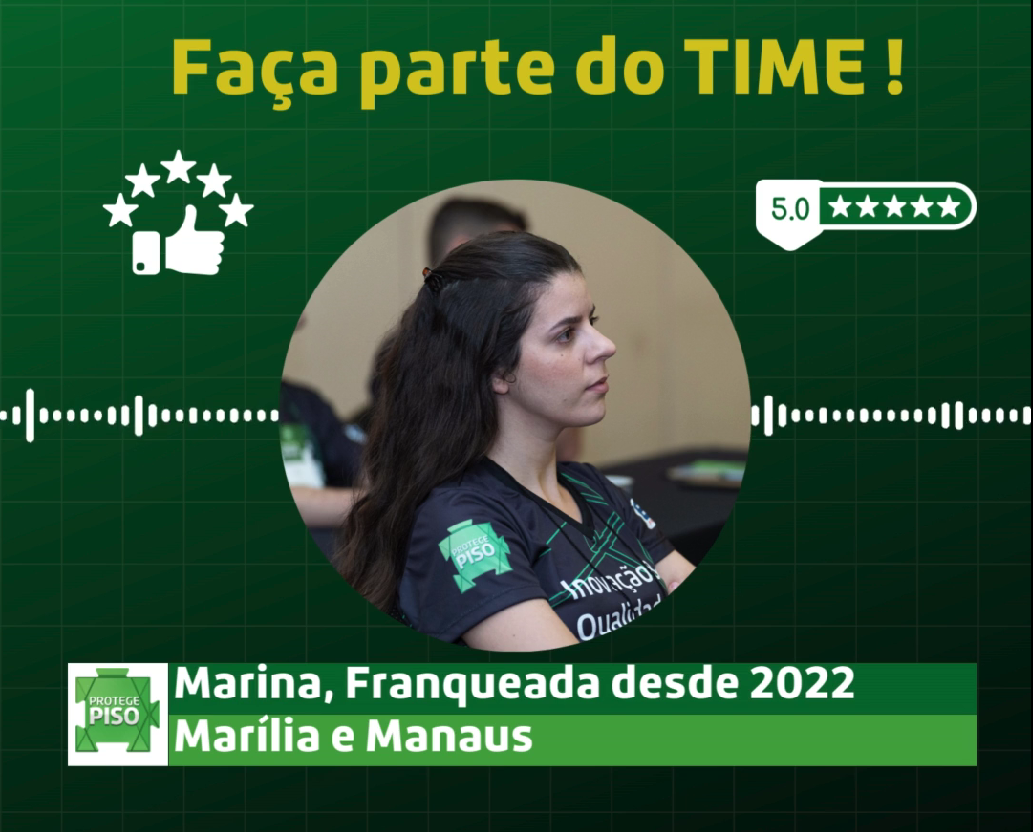
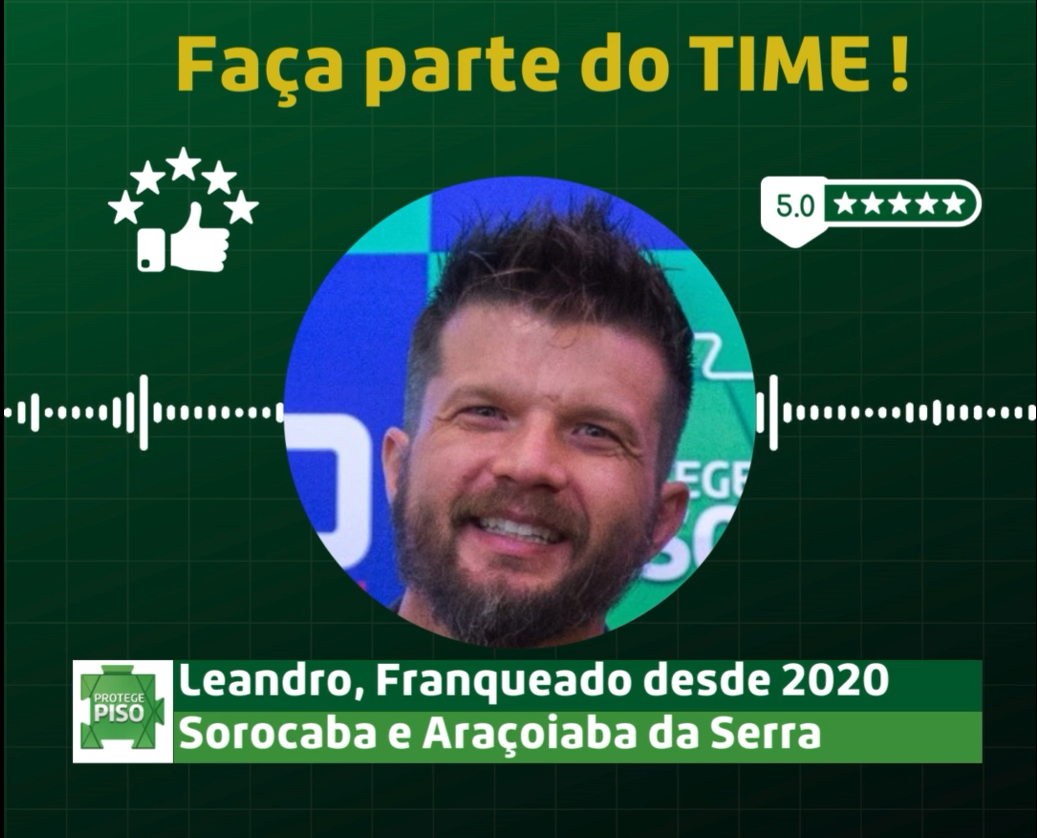
first commit sorocaba

diff --git a/index.html b/index.html
@@ -5,7 +5,7 @@
     <meta charset="UTF-8">
     <meta name="viewport" content="width=device-width, initial-scale=1.0">
     <meta name="Landing Page" content="Website da franquia da protege piso de Palmas">
-    <title>Protege Piso Marilia</title>
+    <title>Protege Piso Sorocaba</title>
     <link rel="stylesheet" href="styles.css">
     <link rel="stylesheet" href="https://cdn.jsdelivr.net/npm/glider-js@1/glider.min.css">
     <script src="https://cdn.jsdelivr.net/npm/glider-js@1/glider.min.js"></script>
@@ -32,7 +32,7 @@
                 <div class="navbar-container">
                     <a href="#" class="logo">
                         <img src="./images/logoprotege.png" alt="Logo da protege piso">
-                        <h3>MARÍLIA</h3>
+                        <h3>Sorocaba</h3>
                     </a>
 
                     <div class="menu-toggle" id="mobile-menu" onclick="toggleMenu()">
@@ -46,7 +46,7 @@
                         <li class="nav-item"><a href="#Informacoes" class="nav-link">Informações</a></li>
                         <li class="nav-item"><a href="#" class="nav-link" id="openChatBtn">Seja um franqueado</a></li>
                         <li class="nav-item">
-                            <a href="https://wa.me/5514998581586" target="_blank">
+                            <a href="https://wa.me/5515998004192" target="_blank">
                                 <img src="images/icone_whatsapp.png" alt="icone logo whatsapp" class="whatsapp-icon-nav"
                                     style="margin-right: 10px;">
                             </a>
@@ -185,7 +185,7 @@
                 <p id="followers"></p>
                 <p id="posts"></p>
             </div>
-            <a href="https://www.instagram.com/ProtegePisoMarilia/" target="_blank"><button type="button"
+            <a href="https://www.instagram.com/protegepisosorocaba/" target="_blank"><button type="button"
                     class="botao-seguir">Seguir</button></a>
         </div>
         <div class="glider-contain-custom">
@@ -197,7 +197,7 @@
     </section>
 
     <section class="container-quem-somos" id="QuemSomos">
-        <h3>EM MARÍLIA DESDE 2022</h3>
+        <h3>EM SOROCABA DESDE 2020</h3>
         <img src="images/na_cidade_desde.PNG" class="imagem-quem-somos" alt="imagem do franqueado">
     </section>
 
@@ -208,20 +208,20 @@
 
         <div class="rodape-informacoes">
             <h5>Franquia</h5>
-            <p>marilia@protegepiso.com.br</p>
+            <p>leandro@protegepiso.com.br</p>
             <div class="item-rodape">
-                <a href="https://wa.me/5514998581586" target="_blank">
+                <a href="https://wa.me/5515998004192" target="_blank">
                     <img src="images/icone_whatsapp.png" alt="icone logo whatsapp"
                         class="rodape-informacoes-icone-whatsapp">
                 </a>
-                <p>(14) 99858-1586</p>
+                <p>(15) 99800-4192</p>
             </div>
             <div class="item-rodape">
                 <a href="https://www.instagram.com/ProtegePisoMarilia/" target="_blank">
                     <img src="images/icone_instagram.png" alt="icone logo instagram"
                         class="rodape-informacoes-icone-instagram">
                 </a>
-                <p>@protegepisomarilia
+                <p>@protegepisosorocaba
                 </p>
             </div>
         </div>

diff --git a/index.js b/index.js
@@ -39,7 +39,7 @@ function toggleMenu() {
     menu.classList.toggle('active');
 }
 
-const apiUrl = 'https://app.ketzim.com/webservice/get-instagram-info/ProtegePisoMarilia/?Token=Ld7gRCo9JtIRw0Ub3sC3JxuCgIMvSAzJEMLSutCPh9XosGzzqpdlhsqhUYXHHRyHKPZ6MHcwfl8Dl7ohzsKv7jpihquxHvFmEkFJ';
+const apiUrl = 'https://app.ketzim.com/webservice/get-instagram-info/ProtegePisoSorocaba/?Token=Ld7gRCo9JtIRw0Ub3sC3JxuCgIMvSAzJEMLSutCPh9XosGzzqpdlhsqhUYXHHRyHKPZ6MHcwfl8Dl7ohzsKv7jpihquxHvFmEkFJ';
 
 function displayUserProfile(profile) {
     document.getElementById('profile-picture').src = profile.profile_picture_url;
@@ -134,7 +134,7 @@ function waitForJivoChat() {
 waitForJivoChat();
 
 const iframeContainer = document.querySelector('.container-iframe');
-const iframeUrl = 'https://app.ketzim.com/webservice/mapa/marilia/';
+const iframeUrl = 'https://app.ketzim.com/webservice/mapa/sorocaba/';
 
 
 fetch(iframeUrl)
@@ -151,16 +151,5 @@ fetch(iframeUrl)
     iframeContainer.innerHTML = '<p>O mapa está temporariamente indisponível. Por favor, tente novamente mais tarde.</p>';
     console.error('Erro ao carregar o mapa:', error);
   });
-
-/*
-document.getElementById('openFranchiseChatBtn').addEventListener('click', function() {
-    document.getElementById('formContainer').style.display = 'none';
-    document.getElementById('embedChatContainer').style.display = 'flex';
-});
-
-document.getElementById('closeChatBtn').addEventListener('click', function() {
-    document.getElementById('embedChatContainer').style.display = 'none';
-    document.getElementById('formContainer').style.display = 'block';
-});*/
 
 
